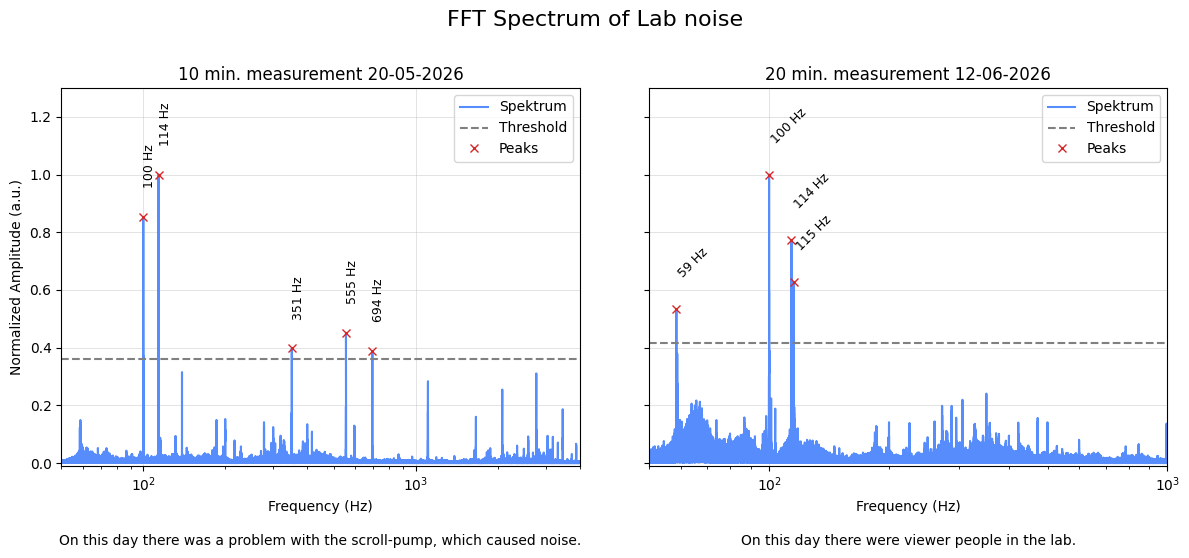
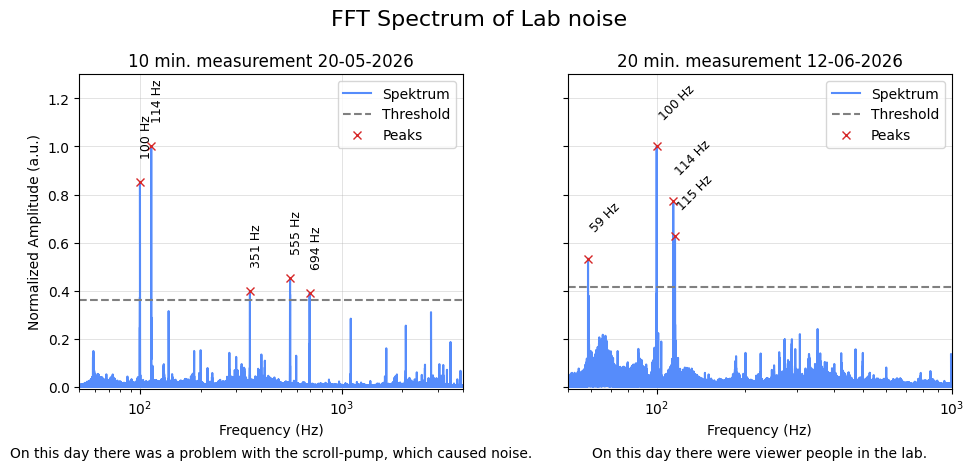
Added a coldplate section with description of first tests and problems

diff --git a/Coldplate/Coldplate.md b/Coldplate/Coldplate.md
@@ -1,0 +1,57 @@
+## Coldplate
+This is a log of receiving, testing I did and problems I may have encountered with the coldplate.
+
+### Design and manufacturing
+Santiago produced a coldplate by milling channels into two opposing aluminum-plates and then gluing them together with a special glue.\
+The channels are designed to allow for mostly laminar flow of the coolant, which should prevent further vibrations near the VECSEL.\
+The channels look something like this:
+
+<img src="./fig/Sketch_coldplate.jpeg" alt="Sketch of coldplate channels" width="300"/>
+
+### Receiving and testing
+The coldplate was received on the 17th of June, and we immediately started testing it to see if it was water tight.\
+We connected the coldplate to a spare chiller from the lab and ran it for a few hours. We did not observe any leaks.\
+Out of curiosity I put my ear to the coldplate to see if I could hear any vibrations, and at pump speeds *high* could hear a continuous sound.\
+When changing the pump speed to *low* the sound was not audible anymore.
+
+### Sound measurements
+To get a better idea and maybe quantify my observations, I decided to do some sound measurements. I used a similar setup as seen in the [Baseplate section](../Baseplate/sub/Sound_in_Lab.md).\
+The setup looks like this:
+
+<img src="./fig/Picture_setup.jpg" alt="Picture of sound measurement setup" width="300"/>
+
+<img src="./fig/Picture_phone.jpg" alt="Picture of phone used for sound measurement" width="300"/>
+
+I did 3 measurements, one with pump speed *high*, one with pump speed *low* and one with the pump turned off but the chiller still on.\
+The results are shown in the following figure:
+
+<img src="./fig/FFT_coldplate_noise.png" alt="FFT of sound measurements" width="600"/>
+
+*This plot shows the FFT of the recorded audio from 3 different conditions: pump speed high, pump speed low and pump off. Each measurement took 10 min. The x-axis represents the frequency in Hz, while the y-axis represents the absolute amplitude.*
+
+The plot indicates, that there is a significant increase in amplitude for some frequencies but also the reverse at different ones.\
+This leads us to the problem with these measurements. They were taken from a phone, which might introduce some uncontrollable processing of the audio. This might explain the increase for some of the frequencies when the pump is off.\
+The phone might for example set its absolute amplitude in reference to the current ambient noise, which is different for each measurement.
+
+I still believe the measurements show something interesting, to emphasize this, I tried to subtract the background noise (*pump off*).
+
+$\text{FFT}_{\text{high}}^\text{reduced} = \text{FFT}_{\text{high}} - \text{FFT}_{\text{off}}$
+
+*Same for $\text{FFT}_{\text{low}}^\text{reduced}$.\
+Negative values as a result of high amplitude in the *off* measurement are removed.*
+
+The results of this are shown in the following figure:
+
+<img src="./fig/FFT_coldplate_noise_peaks.png" alt="FFT of sound measurements with background noise subtracted" width="600"/>
+
+*This plot shows the reduced FFT of the recorded audio from 2 different conditions: pump speed high and pump speed low. Each measurement took 10 min. The x-axis represents the frequency in Hz, while the y-axis represents the absolute amplitude.*
+
+Here we can clearly see that the frequency peak at 238 Hz is significantly reduced by lowering the pump speed. This is probably the frequency I noticed when putting my ear to the coldplate.\
+There are still some peaks in both spectra, that have a significant amplitude, but their origin is still unknown.\
+For the moment I can't improve the measurements, since I don't know how my phone processes the audio and since this isn't the final setup.\
+Adding longer hoses might attenuate some of the frequencies, for this test I used short hoses with a length of below 1 m each.
+
+### Conclusion
+The coldplate seems to be water tight and does not show any leaks.\
+There is a significant sound at a frequency of 238 Hz when the pump is running at high speed, which is significantly reduced when lowering the pump speed.\
+I'm hoping to reduce the sound further by adding longer hoses in the final setup.